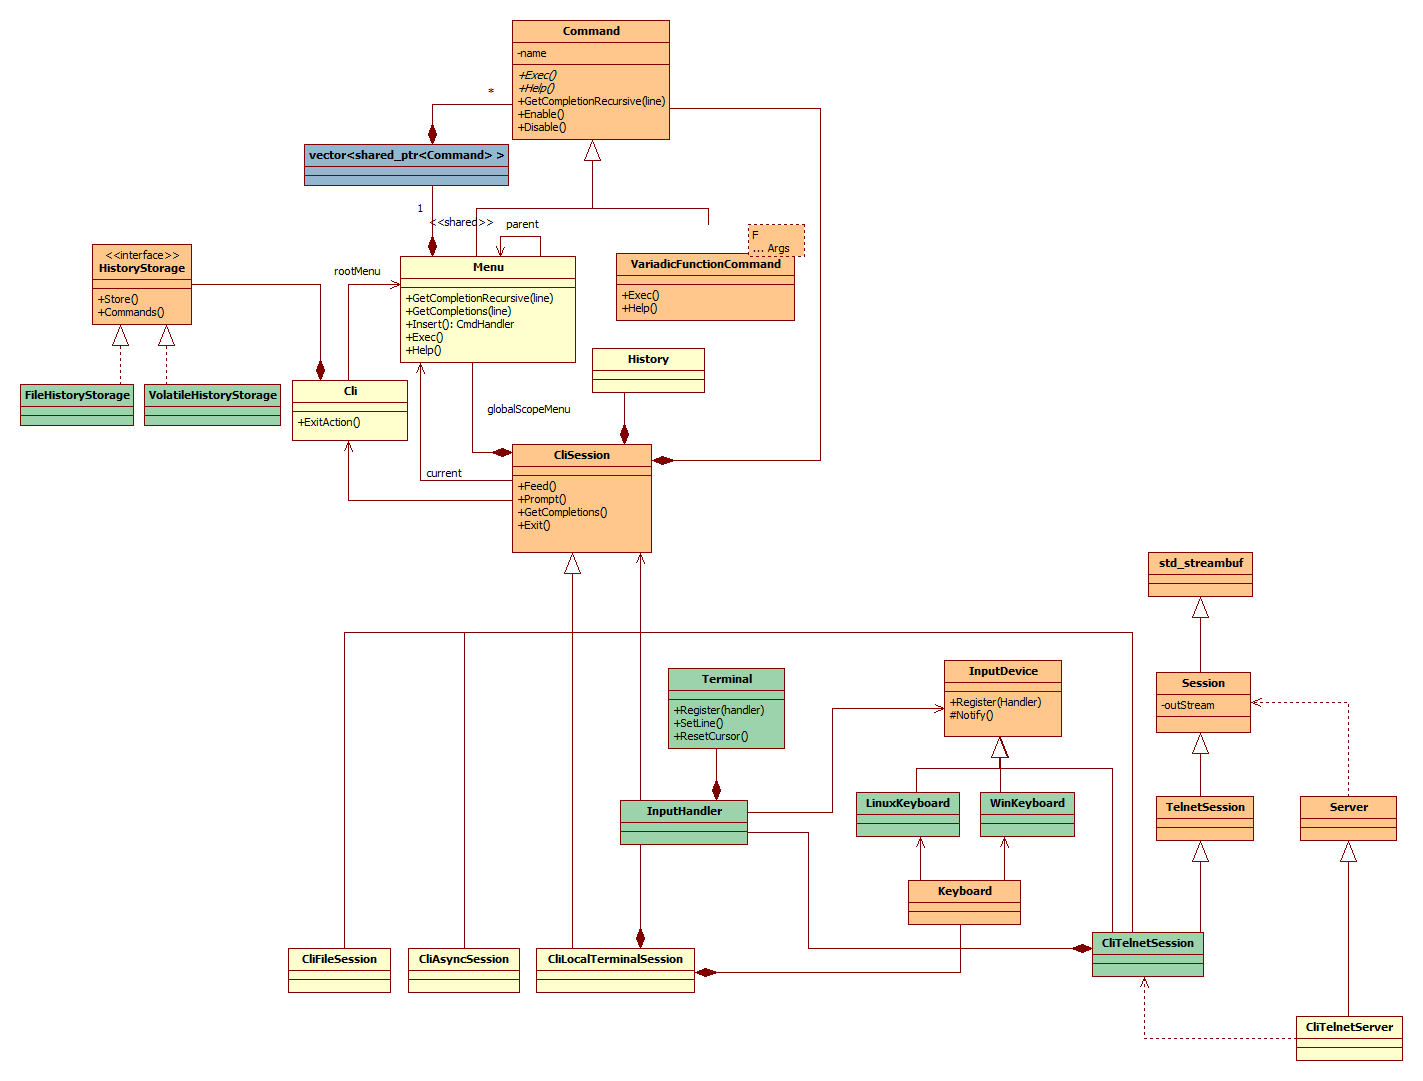
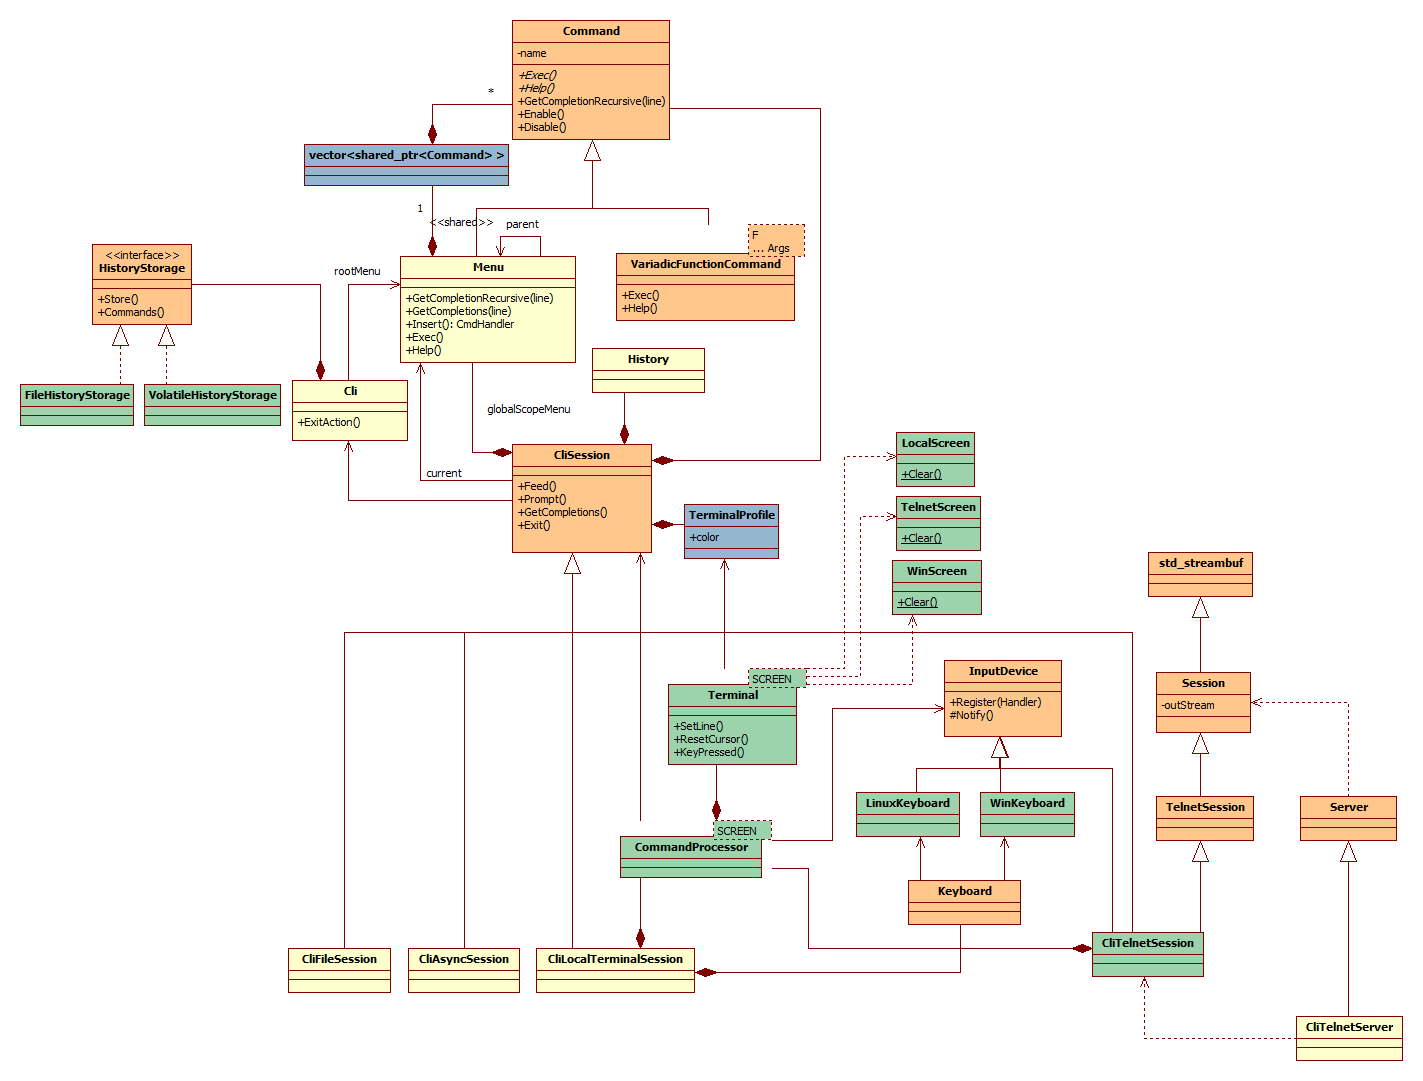
Update UML diagrams and remove [[fallthrough]] because it's C++17

Changed region(s): [[0.4329, 0.6105, 0.5875, 0.8242], [0.6184, 0.3969, 0.7112, 0.58], [0.4638, 0.4579, 0.5566, 0.519]]

diff --git a/include/cli/detail/genericasioremotecli.h b/include/cli/detail/genericasioremotecli.h
@@ -476,11 +476,9 @@ protected:
                 switch( c )
                 {
                     case static_cast<char>(EOF):
-                        [[fallthrough]];
                     case 4:  // EOT
                         Notify(std::make_pair(KeyType::eof,' ')); break;
                     case 8: // Backspace
-                        [[fallthrough]];
                     case 127:  // Backspace or Delete
                         Notify(std::make_pair(KeyType::backspace, ' ')); break;
                     //case 10: Notify(std::make_pair(KeyType::ret,' ')); break;
